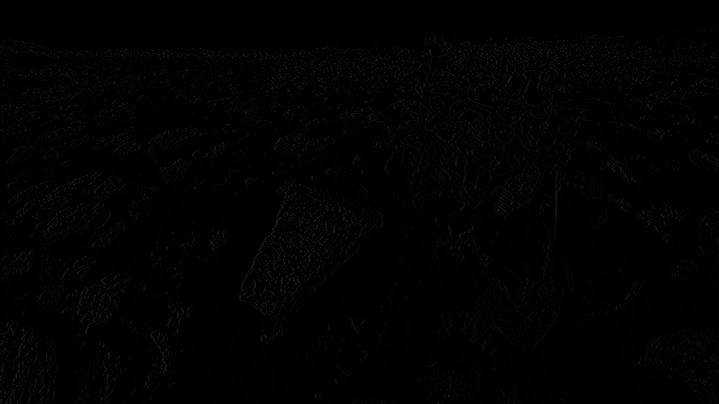
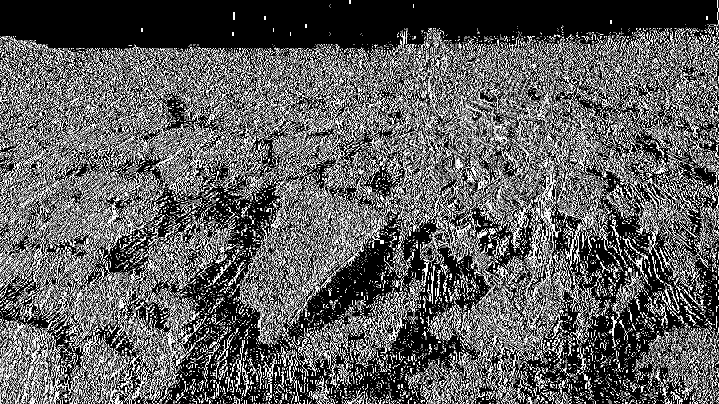
Update README; Fix high-pass filter

diff --git a/ICERPython/Wavelets/Filters/HighPassFilters.py b/ICERPython/Wavelets/Filters/HighPassFilters.py
@@ -61,13 +61,13 @@ class HighPassFilter:
         for i in range(stopping_point):
             
             if i == 0:
-                outputs[i] = self._hn_zero_data_computation(i)
+                outputs[i] = self.d_n_outputs[i] - self._hn_zero_data_computation(i)
             elif i == 1 and self.filter_parameters[0] != 0:
-                outputs[i] = self._hn_one_data_computation(i)
+                outputs[i] = self.d_n_outputs[i] - self._hn_one_data_computation(i)
             elif i == stopping_point - 1 and is_odd == False:
-                outputs[i] = self._hn_end_even_data_computation(i)
+                outputs[i] = self.d_n_outputs[i] - self._hn_end_even_data_computation(i)
             else:
-                outputs[i] = self._hn_standard_data_computation(i)
+                outputs[i] = self.d_n_outputs[i] - self._hn_standard_data_computation(i)
         
         return outputs
 

diff --git a/ICERPython/Wavelets/README.md b/ICERPython/Wavelets/README.md
@@ -1,0 +1,81 @@
+# Wavelet Transformations and Filters
+
+Here I'll touch a bit on the wavelet filters used in this image compression algorithm and then I'll summarize the way the filters are implemented.
+
+## What are these Transformations for?
+
+These filters are crucial for achieving efficient lossless and near-lossless compression. The filters are non-linear approximations to linear high-pass/low-pass filter pairs, and the nonlinearity arises from the use of roundoff operations.
+
+The ICER algorithm should allow a user to utilize one of seven reversible integer wavelet transforms. These transforms produce integer outputs and are exactly invertible when the input consists of integers. The wavelet transforms are computed in essentially the same way but use different choices of filter coefficients.
+
+## What are these Filters?
+ICER provides seven types of filters, labeled as Filter A through F, and an additional filter called Filter Q. Filter A is essentially the same as the "Reversible Two-Six" transform, and the others are from the referenced literature.
+
+### Filter Parameters
+For each filter type, there are four filter parameters: α−1, α0, α1, and β. These parameters determine the behavior of the high-pass filter output.
+
+The table below lists the filter parameters for each filter type:
+
+_Table 1_
+
+| Filter | α−1   | α0   | α1   | β    |
+| ------ | ----- | ---- | ---- | ---- |
+| A      | 0     | 1/4  | 1/4  | 0    |
+| B      | 0     | 2/8  | 3/8  | 2/8  |
+| C      | -1/16 | 4/16 | 8/16 | 6/16 |
+| D      | 0     | 4/16 | 5/16 | 2/16 |
+| E      | 0     | 3/16 | 8/16 | 6/16 |
+| F      | 0     | 3/16 | 9/16 | 8/16 |
+| Q      | 0     | 1/4  | 1/4  | 1/4  |
+
+## How do these Filters work?
+The `Filters` sub-directory contains the implementations of the low-pass and high-pass filters used in the wavelet transformation process utilzing the parameters described in table 1.
+
+1. _Low-Pass Filter (LowPassFilters.py)_
+
+The low-pass filter is responsible for smoothing the input data and preserving the low-frequency components. It takes an input data array and computes the output values as follows:
+
+- For even-length data, it computes the first (N / 2) - 1 outputs using the average of the current data point and the next data point.
+   
+- For odd-length data, it computes the output values as for even-length data and sets the last output value as the last data point.
+
+This follows the equation:
+$$ l[n] = 
+\begin{cases}
+[\frac{1}{2}*(x[2n]+x[2n+1])] & n=0,1,...,[\frac{N}{2}] \\
+x[N-1] & n=[\frac{N-1}{2}],N \space odd \\
+\end{cases} $$
+
+2. _High-Pass Filter (HighPassFilters.py)_
+
+The high-pass filter is responsible for detecting the high-frequency components or rapid changes in the input data. It takes an input data array, the low-pass filter outputs, and filter parameters. The filter computes the following:
+
+- d(n) values, which represent the difference between adjacent data points.
+
+$$ d[n] = 
+\begin{cases}
+[x[2n]-x[2n+1]) & n=0,1,...,[\frac{N}{2}] \\
+0 & n=[\frac{N-1}{2}],N \space odd \\
+\end{cases} $$
+
+- r(n) values, which represent the difference between adjacent low-pass filter outputs.
+
+$$ r[n] = l[n-1] -l[n], n=1,2,...,[\frac{N}{2}] - 1$$
+
+- High-pass filter outputs, which are computed based on the filter parameters and the computed d(n) and r(n) values.
+
+The high-pass filter output computation varies depending on the current index value and the filter parameters. The implemented conditions cover different edge cases, such as the first and last output values and specific parameter configurations.
+
+This follows the equation:
+$$ h[n] = d[n] -
+\begin{cases}
+[\frac{1}{4}r[1]] & n=0 \\
+
+[\frac{1}{4}r[1] + \frac{3}{8}r[2] - \frac{1}{4}d[2] + \frac{1}{2}] & n=1,a_{-1} \neq 0 \\
+
+[\frac{1}{4}r[\frac{N}{2} - 1]] & N \text{ even}, n=\frac{N}{2}-1 \\
+
+[\alpha_{-1} r[n-1] + \alpha_0 r[n] + \alpha_1 r[n+1] - \beta d[n+1] + \frac{1}{2}] & \text{otherwise}
+
+\end{cases} $$
+
